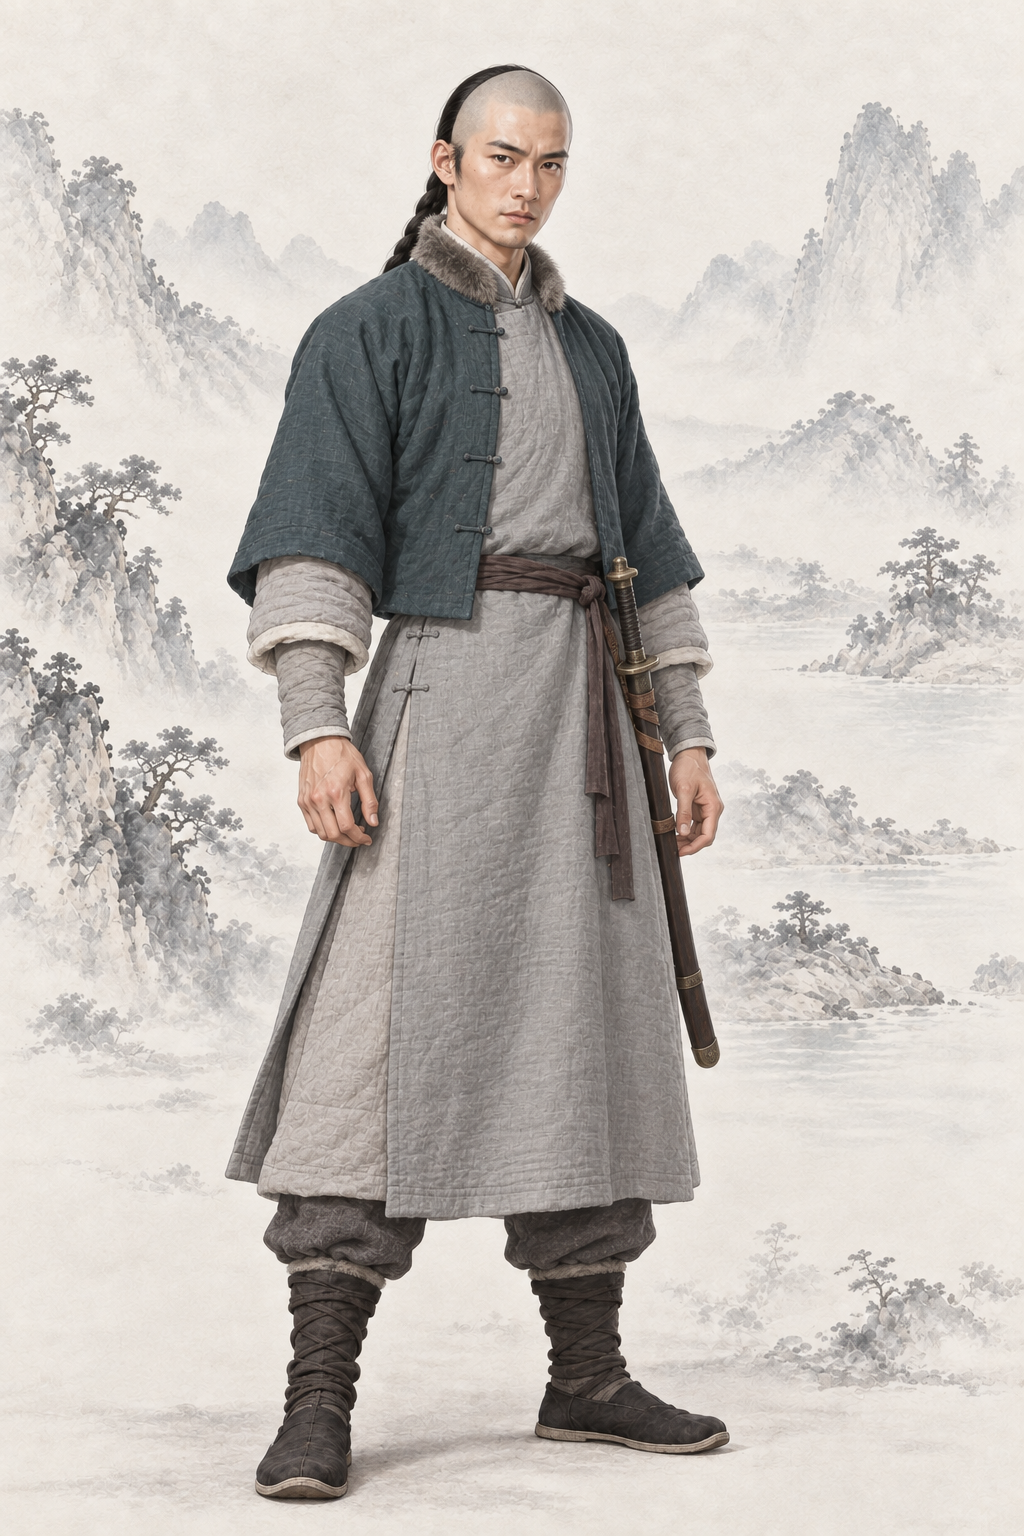
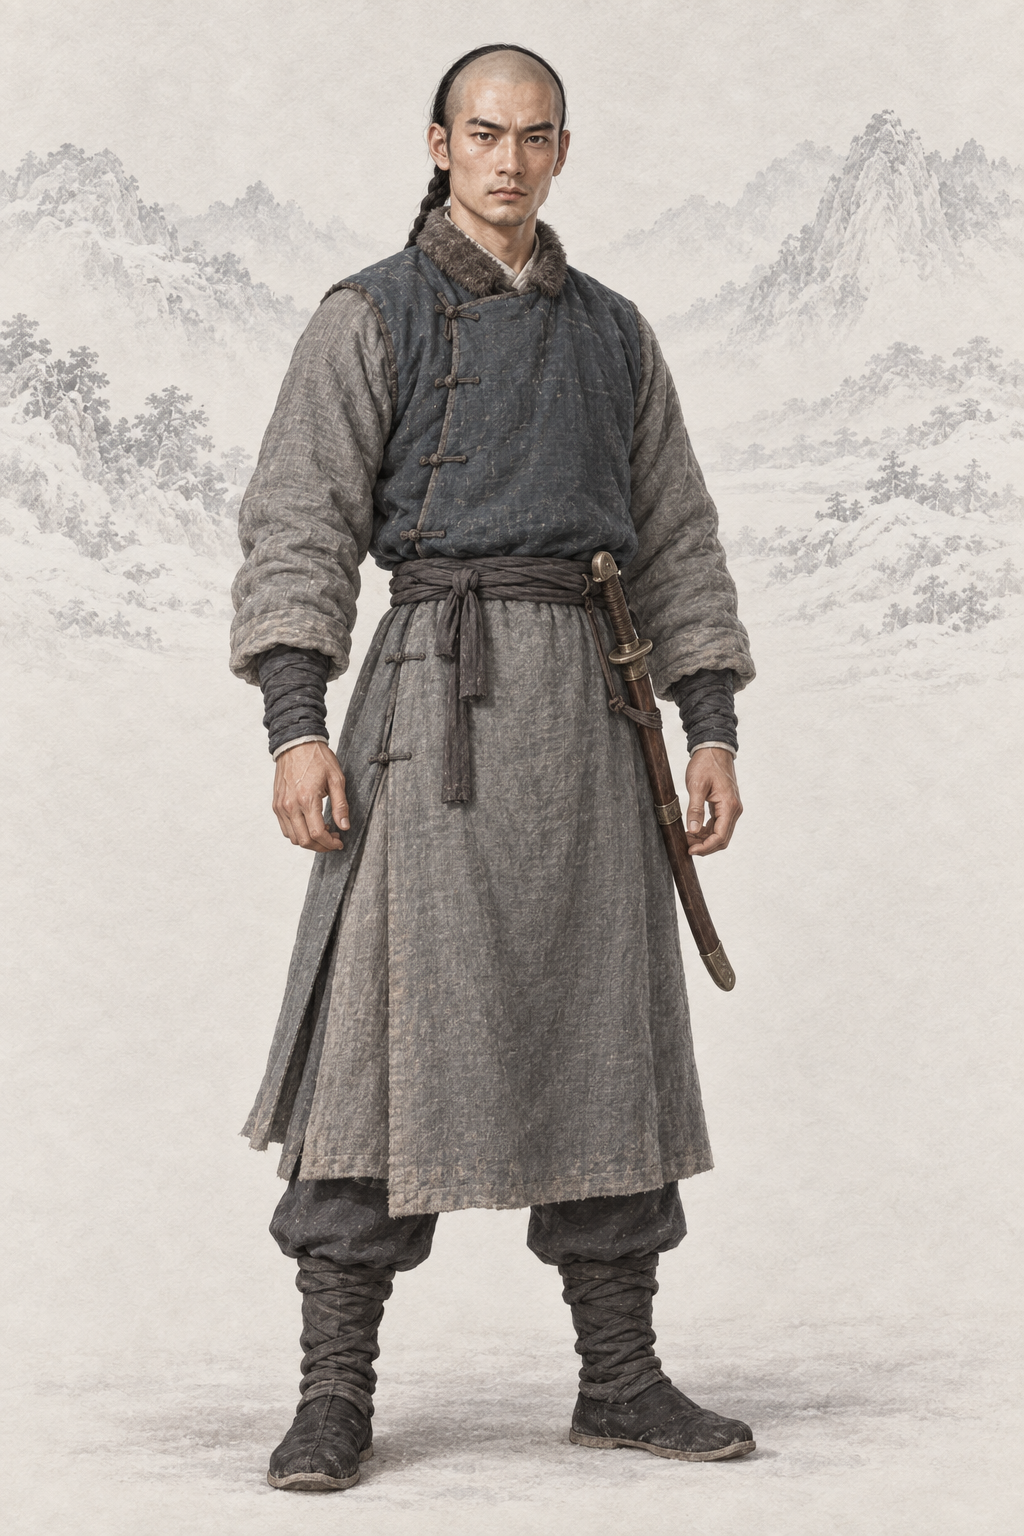
assets(character): por_npc_zhujue__ch14_m_base 主角（男）· 清乾隆·雪地（codex）
主角时代图：上传本轮新出的 ch00 锚点作唯一身份参考；沿用审核组提示词，补去 AI 味一句

diff --git a/assets/default/prompts/characters/protagonist/npc_zhujue__m_ch14.md b/assets/default/prompts/characters/protagonist/npc_zhujue__m_ch14.md
@@ -23,11 +23,31 @@ redo_reason: "随男主 ch00 新锚点统一重出（加左眉断疤与朱红发
 reference_upload:
 - assets/default/character/male/ch00/por_npc_zhujue__ch00_m_base.png
 - assets/default/baseline/character/male/ref_npc_linghuchong__ch05_base01.png
+codex_prompt_rev: 2026-10-02
 ---
 
 # 主角（男）· 清乾隆·雪地 · 人物写实修正
 
 ## Gemini 提示词
+
+> 2026-10-02 AR-31 改写（1 号出图员，codex exec · image_gen 出图）：重要人物借鉴经典影视造型，只写成文字——不写演员名、不上传剧照、原创面孔；主角和美人画得好看，去 AI 味，禁止幼态。出图时上传两张同性别基线立绘作画风参考（放在最后）；第 1 张为身份参考（por_npc_zhujue__ch00_m_base.png）。审核组原稿保留在下一节作历史。
+
+```text
+生成一张 2:3 竖幅全身人物立绘：单人、单一视角、完整全身——头顶、双手、双脚和手中器物的两端都在画面内，四周留出自然空白；人物站姿自然，身体基本朝向正面，头部端正（不歪头、不仰不俯），镜头平视。
+【画风】写实手绘古风人物插画，与本项目写实武侠角色立绘同一画风：人物是完整、坚实、比例真实的写实绘画；皮肤有真实质感——细小毛孔、细纹、晒痕、轻微色斑和自然的左右不对称，不磨皮、不油亮；头发有一根根的发丝和自然碎发；布料看得出经纬纹理、厚薄和自然垂坠的褶皱，带穿用过的轻微旧化，但完整不破烂；整体设色低饱和、沉稳；柔和的自然光从左上方照来，明暗过渡自然，不打舞台光、轮廓光或美颜柔光。这是手绘写实绘画，不是照片，不是三维渲染，也不是动漫或游戏 CG。
+【背景】不透明的暖浅灰色纸底，只在远处有极淡的水墨远山和薄雾，大面积留白；人物与背景明暗分明、轮廓边缘干净完整（后续要自动抠图），水墨和纸纹只在背景里，不侵入人物和衣服；脚下只有很淡的一点接触阴影。
+【人物】主角（男）：本作原创的穿越者，此刻身处《雪山飞狐》清乾隆·雪地（约 1780 年，项目年表）；长白山雪地旅途的普通江湖人。本图是他在这一时代的基础立绘，不代表特定门派或结局。
+【身份参考】随提示词上传的第 1 张图是主角本人（序章 ch00 新版定稿）：保持同一个人——脸型、左眉断疤与小痣、眼睛、鼻子、嘴、肤色、体型和年龄都不变；只把服饰、发式和道具换成下文的本时代版本。不要照搬图中的衣服、姿势和背景。
+【本人面容（十五个时代统一，不能变）】约二十八岁的现代中国男青年，原创面孔，不像任何演员或书中其他人物。偏长的方圆脸，颧骨适中，下颌转折清楚但不宽；平直的浓眉，左眉眉峰处有一道约一厘米长的浅白色旧疤，把左眉截成两段（全书标志，必须清楚可见）；左眉尾下方一颗浅褐色小痣；深棕色中等大小的杏眼、内双，眼神专注、带一点好奇；鼻梁直、鼻头圆钝；上唇薄、下唇略厚，嘴角平和；暖中性略带日晒的肤色，唇上与下巴有极淡的胡茬，眼角有一两道细纹。中等偏高的个子，肩背匀称，四肢结实而不魁梧（约 7.5 头身）；乌黑的头发直而略硬。整体是踏实可靠、警觉而不凶的普通青年，不是偶像或模特。
+【主角标志】发髻根部（清代则是辫梢）系一根褪色的朱红细绳，露出短短的绳头——每个时代都保留这根红绳。
+【服饰】雪灰色清前中期圆领右侧掩襟厚棉长袍，深青短褂、窄布腰带，朴素的短毛领（不遮脸）、厚裤与平底软皮靴；清代男子发式：前额和头顶前半部剃得光光的（露出青色头皮，额前没有头发），只有脑后的头发编成一条结实的长辫垂在背后，辫梢系朱红细绳——和其他清代时代图一样，绝不是满头长发往后梳。
+【道具】左腰用两根短系带挂一柄普通的中国腰刀，完整入微弯的窄木鞘，朴素小护手与木柄，无纹饰；刀不出鞘。
+【姿态与神情】双脚坚定落地、肩背舒展，目光沉静，厚冬衣下仍看得出同一个人的挺拔体态，不因寒冷显得疲惫衰老。
+【不要】画面里不要任何文字、题款、印章、签名、水印、边框、分格或多视图；不要第二个人；不要幼态（童颜、娃娃脸、婴儿肥、儿童或少年身材、大头小身）；不要塑料感皮肤、磨皮美颜、网红脸（尖下巴大眼高鼻的模板脸）、过度对称、浓妆、偶像式打光、蜡像感；不要照片质感、三维渲染或动漫大眼；不要歪头、斜镜头；不要多指、缺指（设定的伤残除外）、手与器物粘连或悬空；汉式交领必须右衽（穿着者的左襟压在右襟上），不要左衽（设定为少数民族服制的除外），不要水平镜像；不要现代物品、发光特效、法阵或能量光。不要满头头发、不要额前留发（必须剃掉前半部头发）；不要明星脸或模特式五官；不要与书中男女主角撞脸；不要具名神兵、门派徽记、官服；不要年龄变小或变老。不要跨时代混搭的发式和服饰。
+【画风基线】随提示词上传的参考图里，最后两张是本项目的立绘画风基线：只参考它们的画风、用色、光线、质感和暖浅灰纸底加淡水墨的背景处理，整体画风必须与它们一致——精细写实的数字手绘插画，不是油画，不要厚涂笔触和画布纹理。参考图只取画风、光线、质感和背景处理，不取长相：不要照搬基线图里人物的长相、年龄、发型、服饰和姿势。
+```
+
+## 审核组 Gemini 提示词（2026-10-02 AR-30 重审稿；AR-31 改写前，历史，不再用于出图）
 
 > 2026-10-02 重要人物立绘重审（A 组，`tools/agents/reports/REVIEW-portraits-A-ch00-04.md`）：**微调重出**。随男主 ch00 新锚点统一重出（加左眉断疤与朱红发绳、去 AI 味），服饰沿用本时代设定。
 > 上传参考只按 frontmatter `reference_upload`（共 1 张，按顺序上传）；frontmatter 的 `references` 与本节以下内容是旧出图管线的历史记录，不再用于出图。
